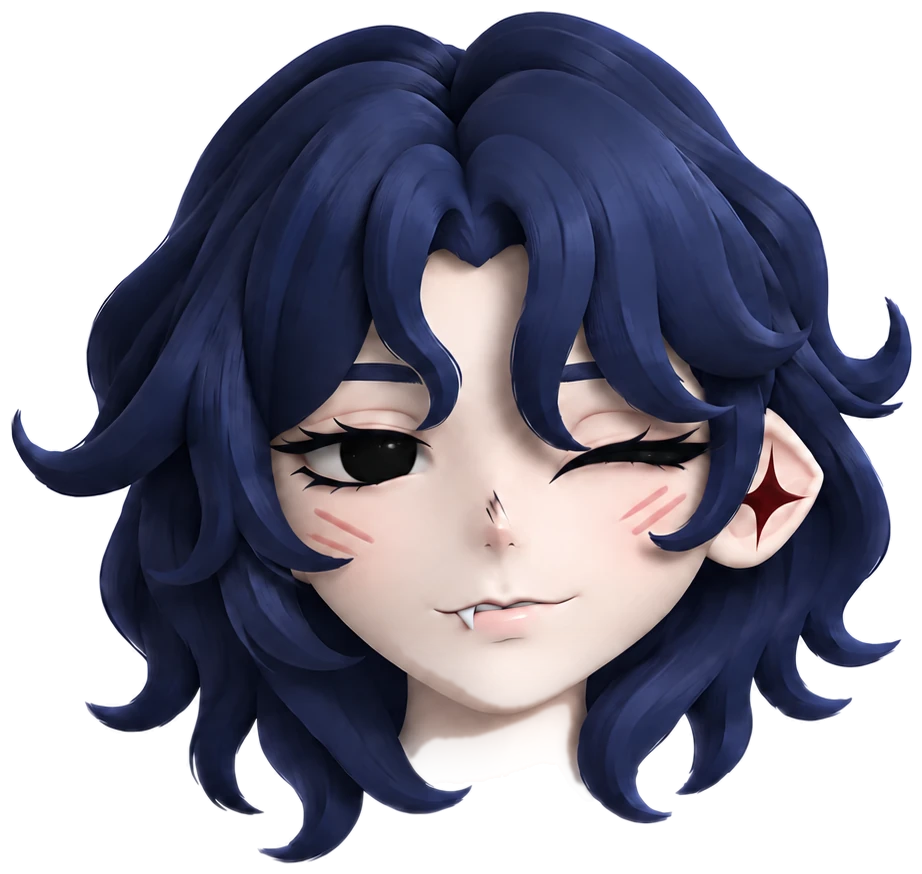
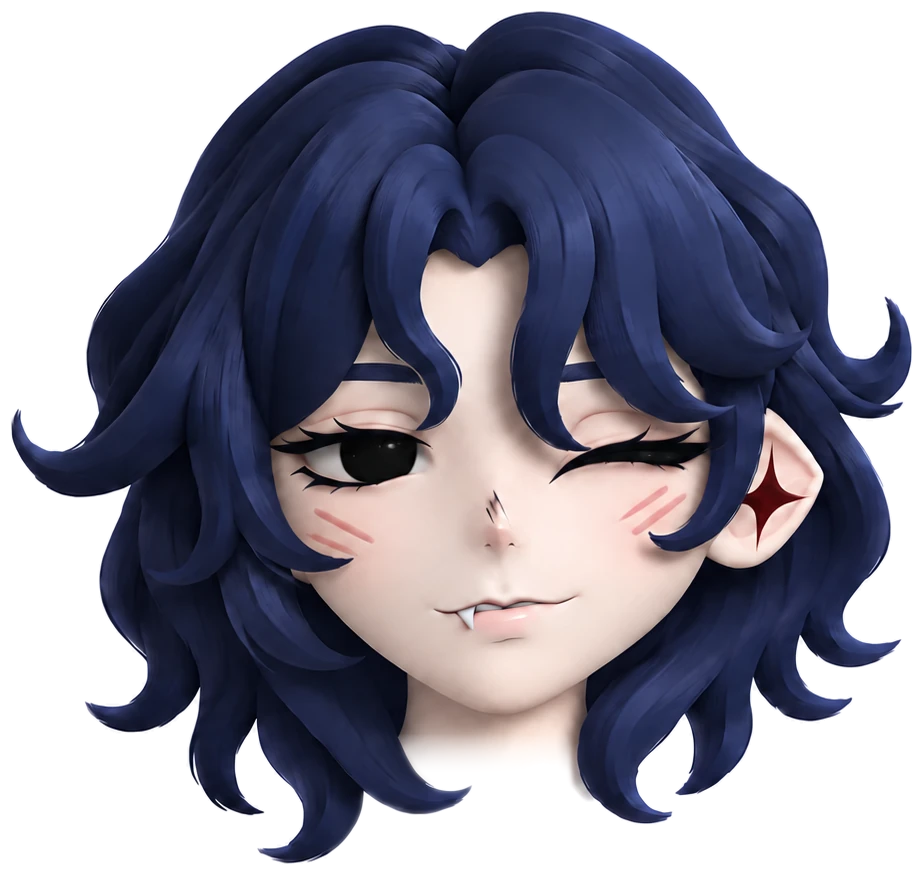
Add files via upload

diff --git a/index.html b/index.html
@@ -148,7 +148,7 @@ body.lock{overflow:hidden}
 <main>
 <section class="hero">
   <nav class="nav" data-fade data-delay="0" data-y="-20">
-    <a href="#about">About</a><a href="#services">Price</a><a href="#projects">Projects</a><a href="#contact">Contact</a>
+    <a href="#about">About</a><a href="#projects">Projects</a><a href="#contact">Contact</a>
   </nav>
   <div class="hwrap"><h1 class="grad" data-fade data-delay="0.15" data-y="40">Hi, i'm fay</h1></div>
   <div class="char"><div data-fade data-delay="0.6" data-y="30"><div class="magnet" id="magnet"><img src="fay-character.webp" alt="Fay — 3D character portrait" draggable="false"></div></div></div>
